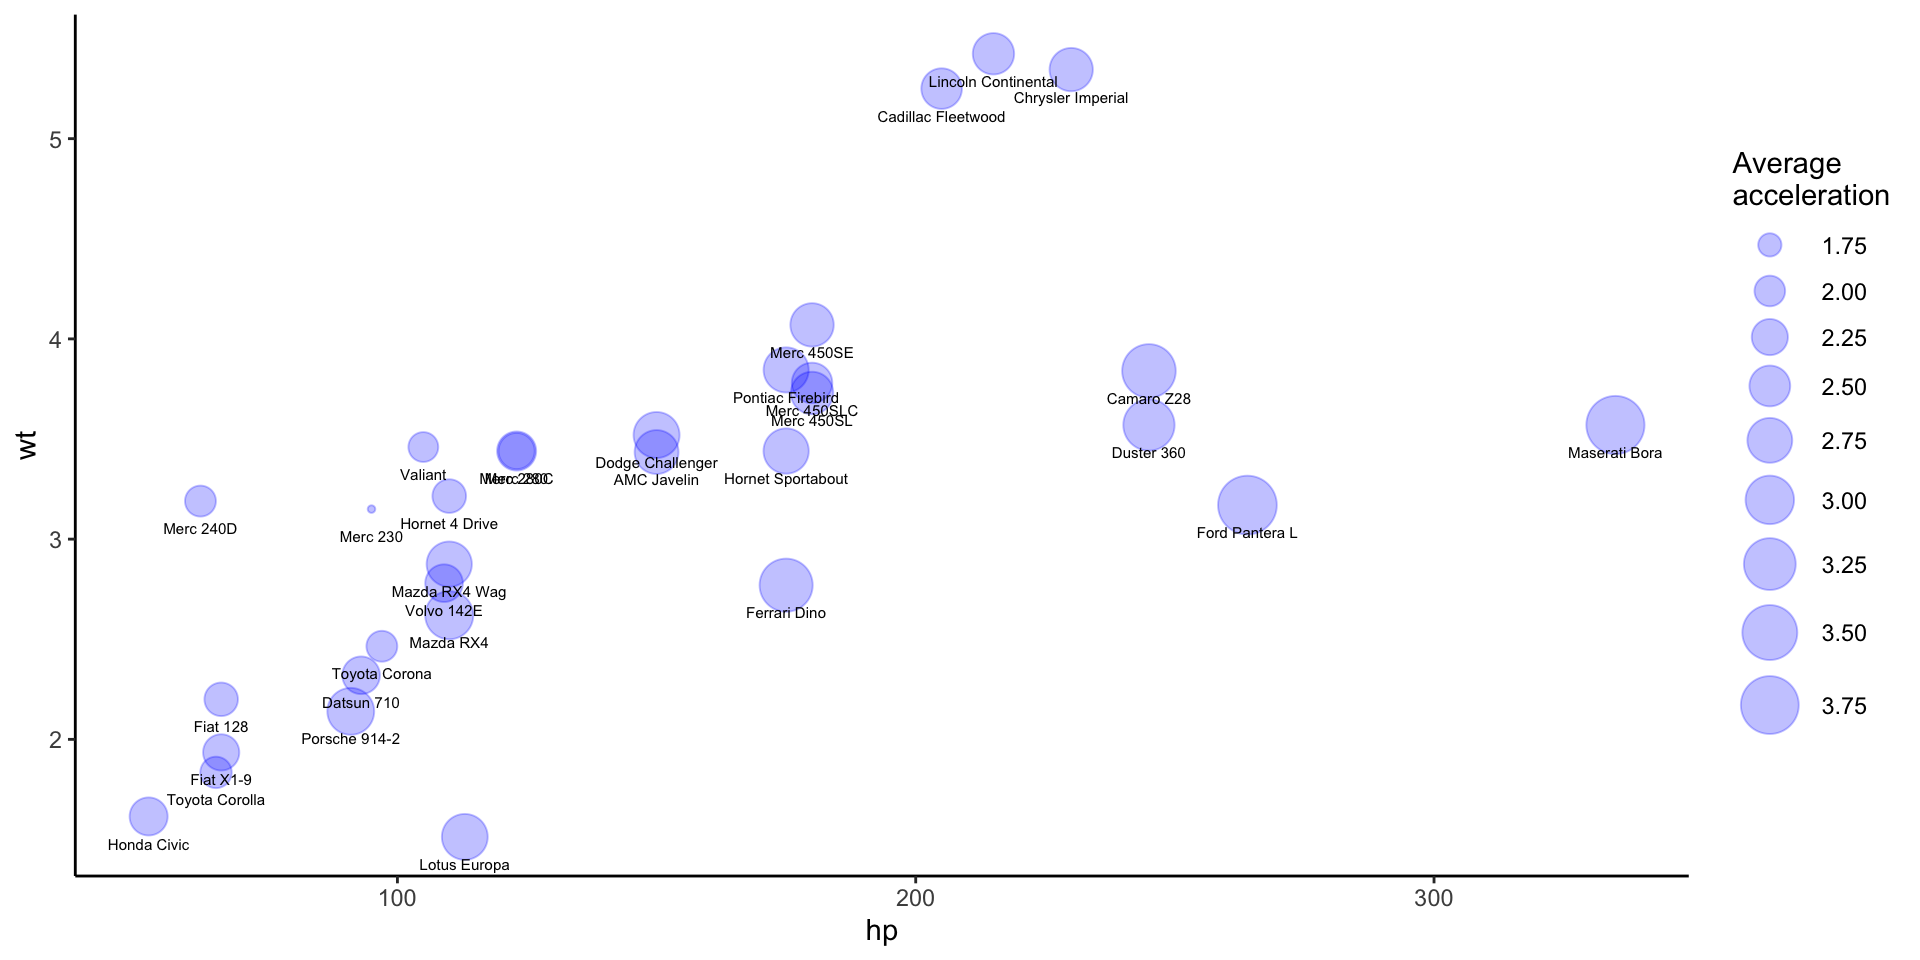
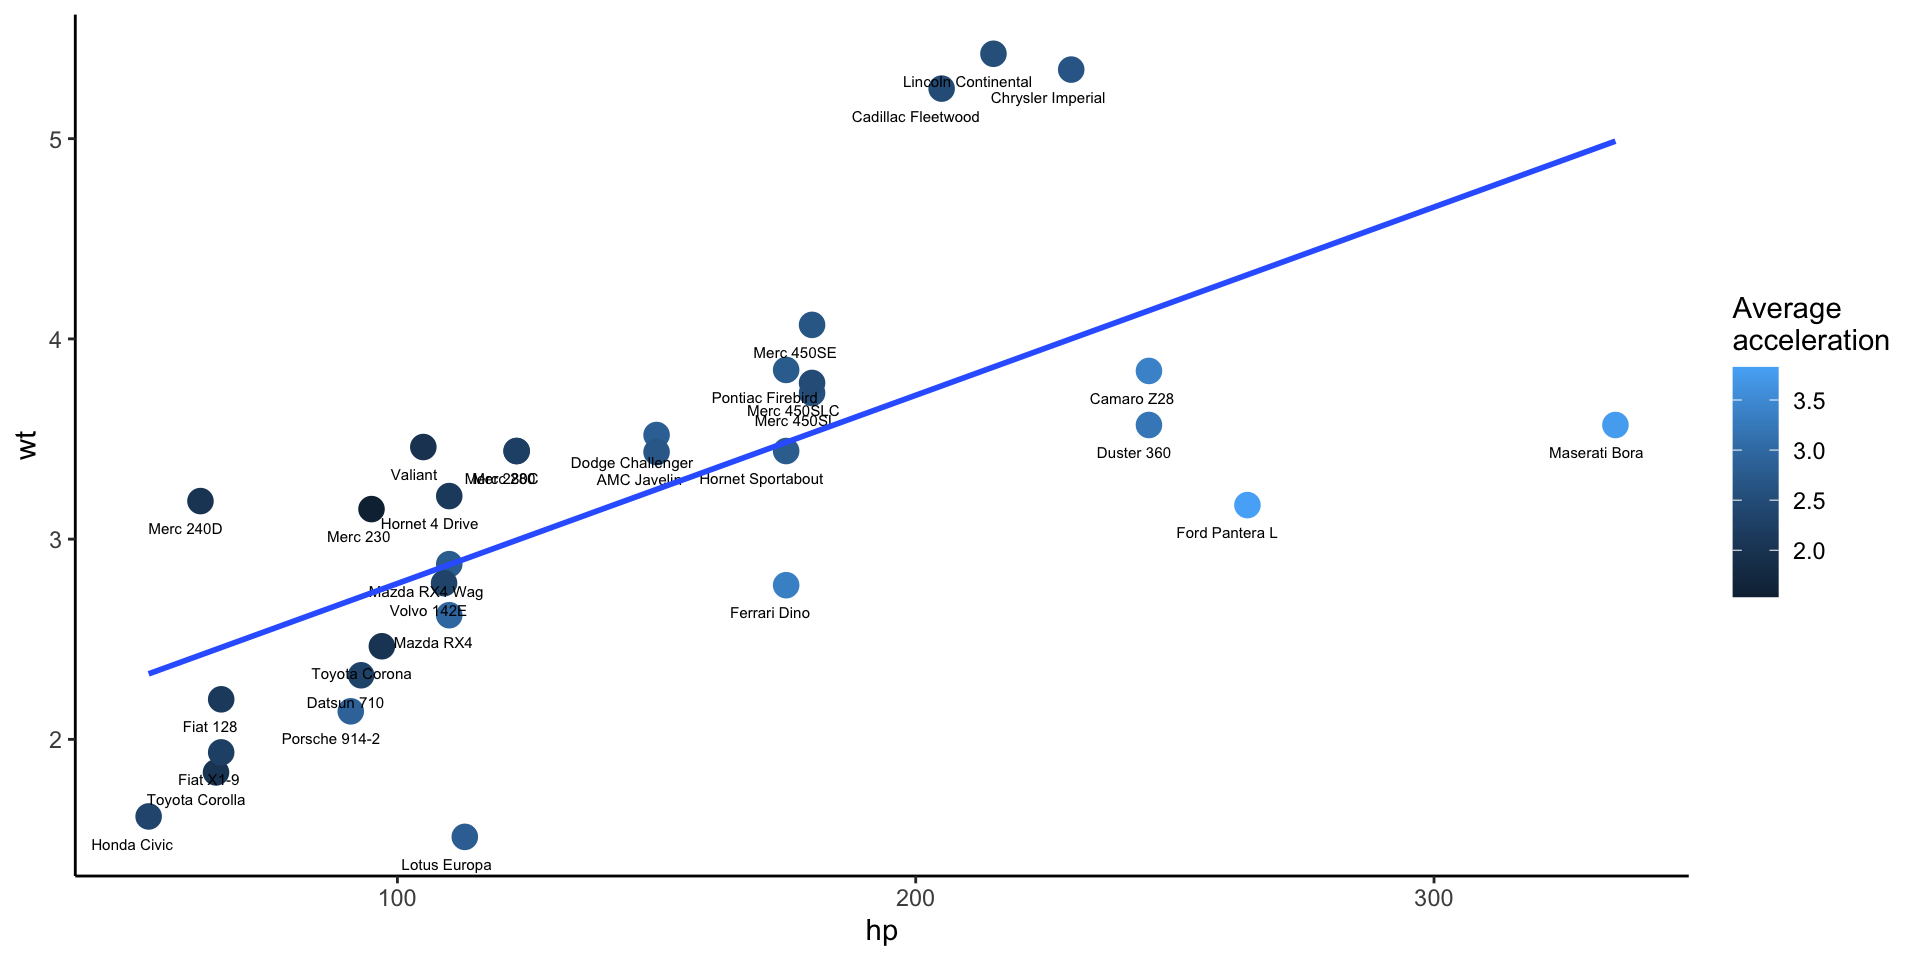
changed adding a geom_smooth to two columns

diff --git a/_site/explore-data/intro-ggplot2/intro-ggplot2.html b/_site/explore-data/intro-ggplot2/intro-ggplot2.html
@@ -526,6 +526,8 @@
 <img data-src="intro-ggplot2_files/figure-revealjs/unnamed-chunk-11-1.png" width="960" class="r-stretch"></section>
 <section id="adding-a-geom_smooth-layer" class="slide level2">
 <h2>Adding a <code>geom_smooth()</code> layer</h2>
+<div class="columns">
+<div class="column" style="width:40%;">
 <div class="cell">
 <details open="">
 <summary>Code</summary>
@@ -549,9 +551,16 @@
 <span id="cb10-18"><a href="#cb10-18"></a>    <span class="at">mapping =</span> <span class="fu">aes</span>(<span class="at">x =</span> disp, <span class="at">y =</span> mpg)</span>
 <span id="cb10-19"><a href="#cb10-19"></a>    )</span></code><button title="Copy to Clipboard" class="code-copy-button"><i class="bi"></i></button></pre></div>
 </details>
-
 </div>
-<img data-src="intro-ggplot2_files/figure-revealjs/unnamed-chunk-12-1.png" width="960" class="r-stretch"></section>
+</div><div class="column" style="width:60%;">
+<div class="cell">
+<div class="cell-output-display">
+<p><img data-src="intro-ggplot2_files/figure-revealjs/unnamed-chunk-13-1.png" width="960"></p>
+</div>
+</div>
+</div>
+</div>
+</section>
 <section id="exercise-2" class="slide level2">
 <h2>Exercise:</h2>
 <p>Which parameter control the smoothness? Plot again with “half the smoothness”.</p>
@@ -585,7 +594,7 @@
 </details>
 
 </div>
-<img data-src="intro-ggplot2_files/figure-revealjs/unnamed-chunk-16-1.png" width="960" class="r-stretch"></section>
+<img data-src="intro-ggplot2_files/figure-revealjs/unnamed-chunk-17-1.png" width="960" class="r-stretch"></section>
 <section id="other-data-in-the-plot" class="slide level2">
 <h2>Other data in the plot</h2>
 <div class="cell">
@@ -626,7 +635,7 @@
 </details>
 
 </div>
-<img data-src="intro-ggplot2_files/figure-revealjs/unnamed-chunk-19-1.png" width="960" class="r-stretch"></section>
+<img data-src="intro-ggplot2_files/figure-revealjs/unnamed-chunk-20-1.png" width="960" class="r-stretch"></section>
 <section id="labels" class="slide level2">
 <h2>Labels</h2>
 <div class="cell">
@@ -670,7 +679,7 @@
 </details>
 
 </div>
-<img data-src="intro-ggplot2_files/figure-revealjs/unnamed-chunk-22-1.png" width="960" class="r-stretch"></section>
+<img data-src="intro-ggplot2_files/figure-revealjs/unnamed-chunk-23-1.png" width="960" class="r-stretch"></section>
 <section id="three-variables" class="slide level2">
 <h2>Three variables</h2>
 <ul>
@@ -692,7 +701,7 @@
 </details>
 
 </div>
-<img data-src="intro-ggplot2_files/figure-revealjs/unnamed-chunk-23-1.png" width="960" class="r-stretch"></section>
+<img data-src="intro-ggplot2_files/figure-revealjs/unnamed-chunk-24-1.png" width="960" class="r-stretch"></section>
 <section id="three-variables-1" class="slide level2">
 <h2>Three variables</h2>
 <div class="cell">
@@ -709,7 +718,7 @@
 </details>
 
 </div>
-<img data-src="intro-ggplot2_files/figure-revealjs/unnamed-chunk-24-1.png" width="960" class="r-stretch"></section>
+<img data-src="intro-ggplot2_files/figure-revealjs/unnamed-chunk-25-1.png" width="960" class="r-stretch"></section>
 <section id="another-strategy-facets" class="slide level2">
 <h2>Another strategy; facets</h2>
 <div class="cell">
@@ -722,7 +731,7 @@
 </details>
 
 </div>
-<img data-src="intro-ggplot2_files/figure-revealjs/unnamed-chunk-25-1.png" width="960" class="r-stretch"></section>
+<img data-src="intro-ggplot2_files/figure-revealjs/unnamed-chunk-26-1.png" width="960" class="r-stretch"></section>
 <section id="facets-whole-dataset-in-background" class="slide level2">
 <h2>Facets, whole dataset in background</h2>
 <div class="cell">
@@ -741,7 +750,7 @@
 </details>
 
 </div>
-<img data-src="intro-ggplot2_files/figure-revealjs/unnamed-chunk-26-1.png" width="960" class="r-stretch"></section>
+<img data-src="intro-ggplot2_files/figure-revealjs/unnamed-chunk-27-1.png" width="960" class="r-stretch"></section>
 <section id="two-facet-variables" class="slide level2">
 <h2>Two facet variables</h2>
 <div class="cell">
@@ -757,7 +766,7 @@
 </details>
 
 </div>
-<img data-src="intro-ggplot2_files/figure-revealjs/unnamed-chunk-27-1.png" width="960" class="r-stretch"></section>
+<img data-src="intro-ggplot2_files/figure-revealjs/unnamed-chunk-28-1.png" width="960" class="r-stretch"></section>
 <section id="other-graphical-systems-in-r" class="slide level2">
 <h2>Other graphical systems in R</h2>
 <ul>
@@ -776,7 +785,7 @@
 </details>
 
 </div>
-<img data-src="intro-ggplot2_files/figure-revealjs/unnamed-chunk-28-1.png" width="960" class="r-stretch"></section>
+<img data-src="intro-ggplot2_files/figure-revealjs/unnamed-chunk-29-1.png" width="960" class="r-stretch"></section>
 <section id="classic" class="slide level2">
 <h2>Classic</h2>
 <div class="cell">
@@ -796,7 +805,7 @@
 <div class="sourceCode cell-code" id="cb25"><pre class="sourceCode numberSource r number-lines code-with-copy"><code class="sourceCode r"><span id="cb25-1"><a href="#cb25-1"></a><span class="fu">par</span>(old.par)</span></code><button title="Copy to Clipboard" class="code-copy-button"><i class="bi"></i></button></pre></div>
 </details>
 </div>
-<img data-src="intro-ggplot2_files/figure-revealjs/unnamed-chunk-29-1.png" width="960" class="r-stretch"></section>
+<img data-src="intro-ggplot2_files/figure-revealjs/unnamed-chunk-30-1.png" width="960" class="r-stretch"></section>
 <section id="one-variable" class="slide level2">
 <h2>One variable</h2>
 <ul>
